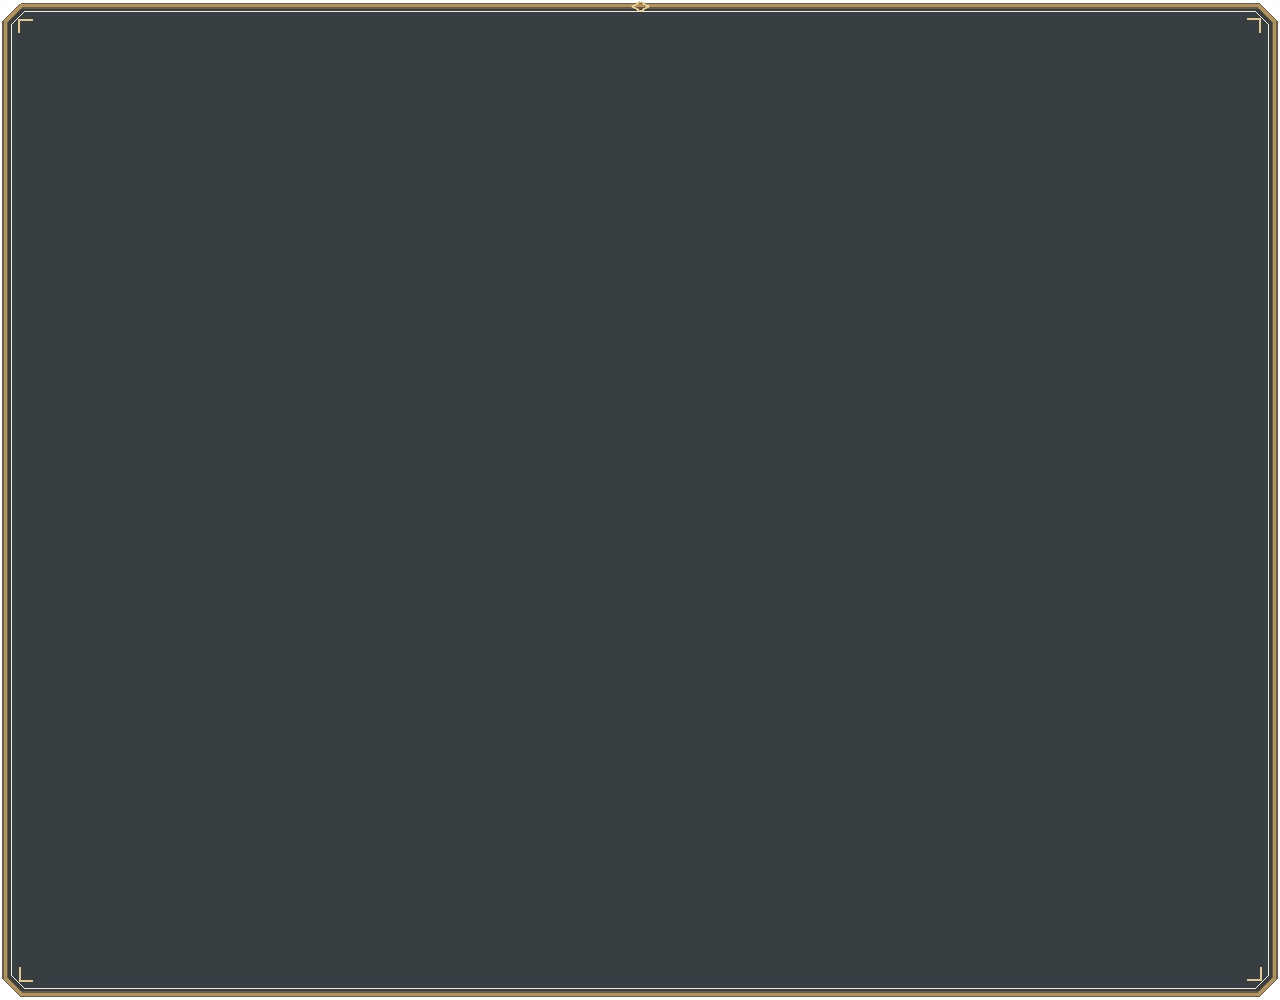
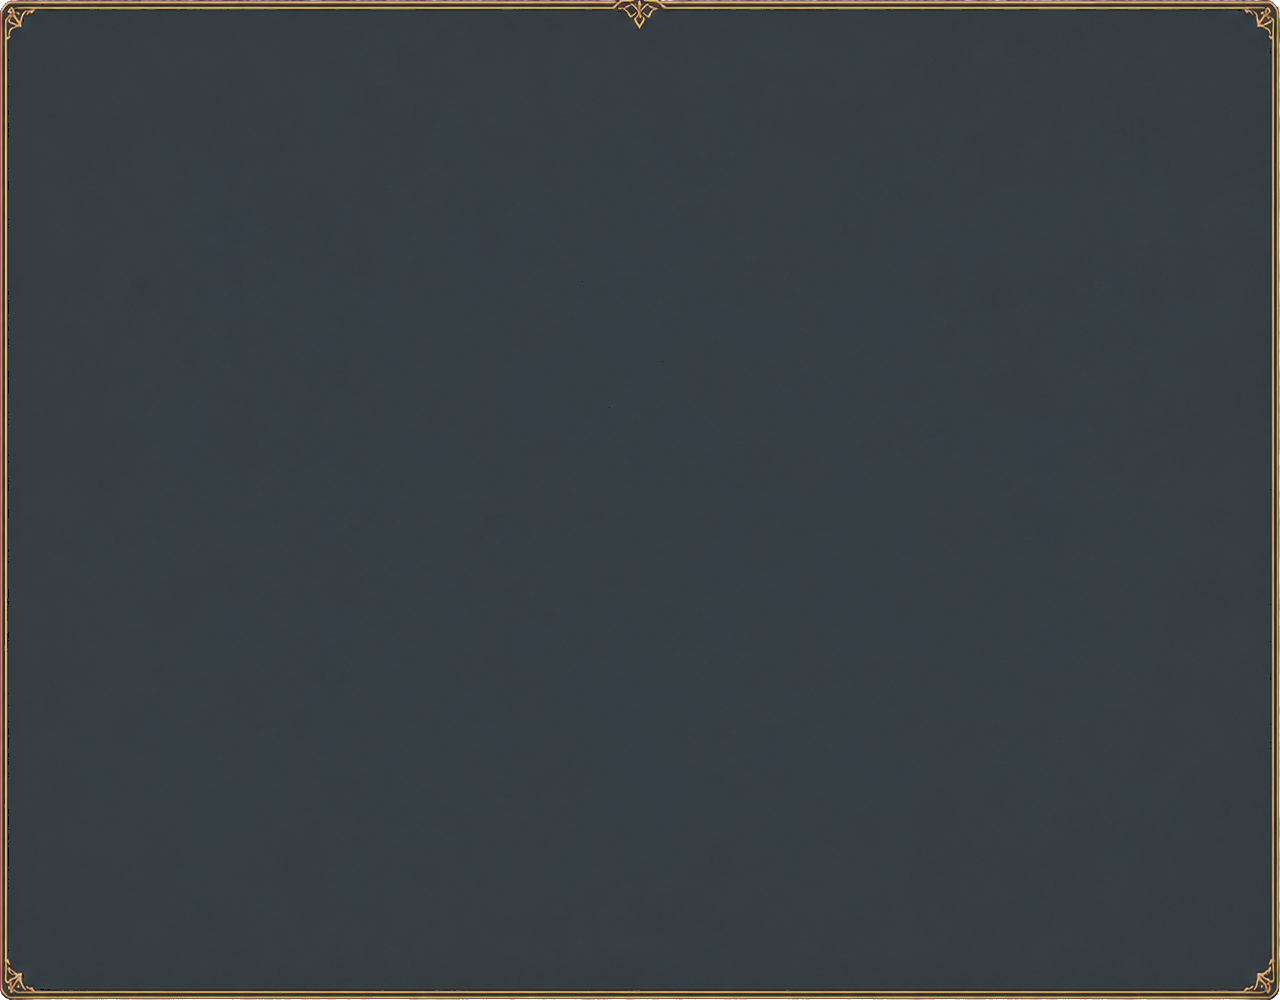
UI Kit-v5 slim pass 2 (modal, detail card, primary button, hold ring, minimap ring); vitals always on
- Codex regenerated modal_frame, detail_card_frame, button_primary_brass (muted aged brass, not bright yellow; the
  concepts set its label in dark ink), hold_confirm_ring and minimap_ring from market-board and gameplay-hud crops,
  under the same names and 2x sizes. kit.json margins updated; scan_borders.py passes.
- Vitals HUD spawns as soon as the local player possesses an E1 character, reading full health until combat health
  replicates, so a plain Silverbrook run shows it. Defeat still needs replicated zero health.

Changed region(s): [[0.0, 0.0, 1.0, 1.0]]

diff --git a/GameClient/ArtSource/UI/Kit-v5/slim/process.py b/GameClient/ArtSource/UI/Kit-v5/slim/process.py
@@ -20,8 +20,9 @@ MARGINS = {  # 9-slice margins in 2x px for the slim art (the old values covered
     'button_normal': [24, 24, 24, 24], 'tab_normal': [22, 20, 22, 20], 'tab_selected': [22, 20, 22, 20],
     'search_field': [22, 20, 22, 20], 'dropdown_field': [22, 20, 22, 20], 'recipe_row': [22, 20, 22, 20],
     'queue_row': [22, 20, 22, 20], 'minimap_footer': [20, 18, 20, 18],
+    'modal_frame': [40, 40, 40, 40], 'detail_card_frame': [28, 28, 28, 28], 'button_primary_brass': [32, 24, 32, 24],
 }
-OPAQUE = {'bar_hp_fill', 'bar_stamina_fill', 'bar_xp_fill', 'keycap_f'}
+OPAQUE = {'bar_hp_fill', 'bar_stamina_fill', 'bar_xp_fill', 'keycap_f', 'button_primary_brass', 'hold_confirm_ring', 'minimap_ring'}
 BAR_RECT = (42, 13, 718, 51)  # left, top, right (exclusive), bottom (exclusive) in the 760x64 frame
 TROUGH = (14, 22, 27)
 
@@ -124,7 +125,7 @@ def main(only):
         out = image.resize(size, Image.LANCZOS)
         if piece not in OPAQUE:
             out = translucent(out)
-        if piece not in OPAQUE or piece == 'keycap_f':
+        if not piece.endswith('_fill'):
             out = clean_edges(out)
         out.save(KIT / data['pieces'][piece]['file'])
         if piece == 'bar_xp_fill':

diff --git a/GameClient/Source/ShatteredFrontier/Private/Characters/SFE1VitalsHud.cpp b/GameClient/Source/ShatteredFrontier/Private/Characters/SFE1VitalsHud.cpp
@@ -291,7 +291,8 @@ void USFE1VitalsHudSubsystem::Tick(float DeltaTime)
     if (!Pawn) { return; }
     const double Now = World->GetTimeSeconds();
     Model.Observe(Pawn->CombatHealth(), Now);
-    if (!Model.bActive) { return; }
+    // Always on for the local E1 pawn (the master HUD's vitals). Before combat health first replicates (no combat pilot
+    // here), nothing can have hurt the player, so the bar reads full.
     if (!Hud)
     {
         Hud = CreateWidget<USFE1VitalsHud>(PC, USFE1VitalsHud::StaticClass());
@@ -331,7 +332,9 @@ void USFE1VitalsHudSubsystem::Tick(float DeltaTime)
         }
     }
     else if (!Model.IsDefeated() && DefeatGrade) { DefeatGrade->Destroy(); DefeatGrade = nullptr; }
-    Hud->Present(Model, Settings->PlayerHealth, FSFE1VitalsModel::RemainingSeconds(Model.DefeatedAt, Now, Settings->PlayerRespawnDelaySeconds), Defeat);
+    FSFE1VitalsModel Shown = Model;
+    if (!Model.bActive) { Shown.Health = Settings->PlayerHealth; }
+    Hud->Present(Shown, Settings->PlayerHealth, FSFE1VitalsModel::RemainingSeconds(Model.DefeatedAt, Now, Settings->PlayerRespawnDelaySeconds), Defeat);
 }
 
 void USFE1VitalsHudSubsystem::Deinitialize()

diff --git a/GameClient/ArtSource/UI/Kit-v5/slim/refs.py b/GameClient/ArtSource/UI/Kit-v5/slim/refs.py
@@ -25,6 +25,11 @@ CROPS = {  # piece: (concept, (left, top, right, bottom))
     'recipe_row': ('crafting-station', (571, 320, 832, 375)),
     'queue_row': ('crafting-station', (575, 667, 1278, 712)),
     'window_frame': ('defeated', (467, 167, 1198, 713)),
+    'modal_frame': ('market-board', (216, 94, 1456, 790)),
+    'detail_card_frame': ('market-board', (1096, 252, 1430, 768)),
+    'button_primary_brass': ('market-board', (1116, 680, 1412, 748)),
+    'hold_confirm_ring': ('market-board', (1120, 684, 1200, 748)),
+    'minimap_ring': ('gameplay-hud', (1402, 16, 1650, 250)),
 }
 (HERE / 'refs').mkdir(exist_ok=True)
 for piece, (concept, box) in CROPS.items():

diff --git a/GameClient/Source/ShatteredFrontier/Public/Characters/SFE1VitalsHud.h b/GameClient/Source/ShatteredFrontier/Public/Characters/SFE1VitalsHud.h
@@ -66,7 +66,7 @@ private:
     bool bDefeatShown = false;
 };
 
-// Creates the HUD for the local player once its ASFE1Character first reports health; no RPCs.
+// Creates the HUD for the local player as soon as it possesses an ASFE1Character (full health until combat health replicates); no RPCs.
 UCLASS()
 class SHATTEREDFRONTIER_API USFE1VitalsHudSubsystem : public UTickableWorldSubsystem
 {
